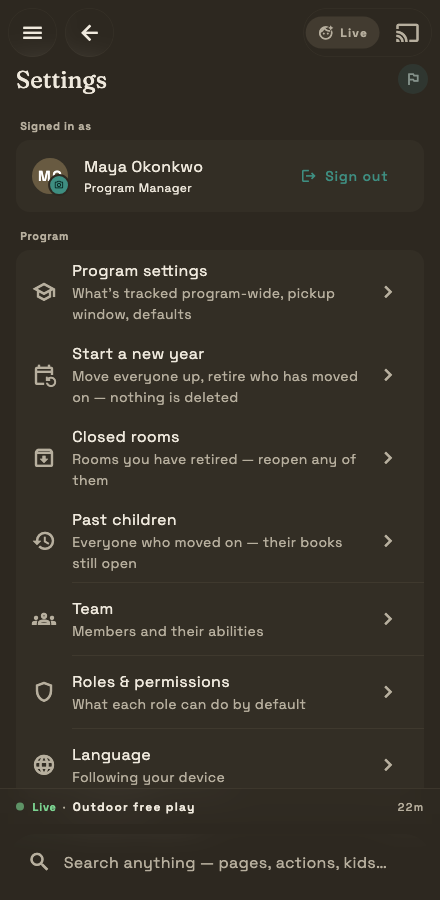
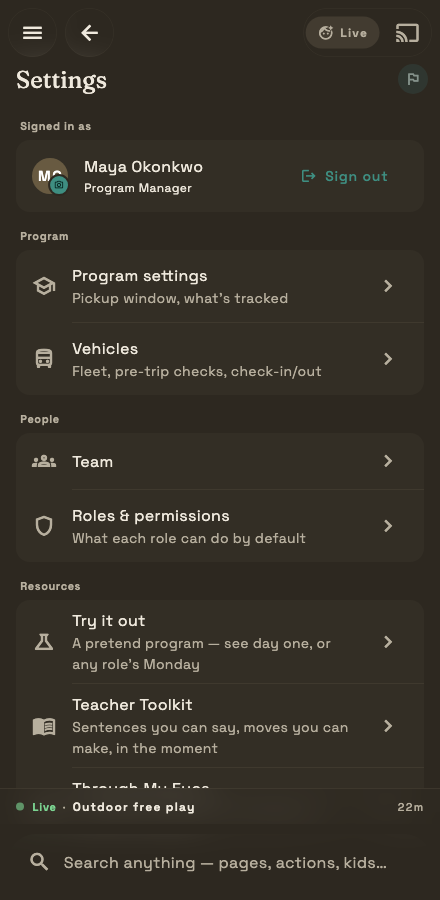
fix(settings): group by what you came to do; fix a crossword flake found doing it
Settings, regrouped

  "Program" held six different errands under one heading: config, an
  annual action, two archives, two people screens and a device
  preference. Finding any of them meant reading all of them, and every row
  looked and weighed the same.

  Now — Program (settings, vehicles) · People (team, roles) · Resources
  (try it out, toolkit, scripts, pictures) · Preferences (language,
  display, fonts, text size, layouts) · Kept, not gone (closed rooms,
  past children) · Once a year · About. Three coherent groups now fit
  where one incoherent one used to fill the screen.

  "Start a new year" gets its own heading because it is not navigation —
  it moves every child in the program up. A row that changes the shape of
  the whole program should not sit in a list of places to go.

  Subtitles only where the row cannot speak for itself. "Team · Members
  and their abilities" doubled a row's height to explain the word "Team";
  it is one line now. "Past children" keeps its subtitle because the
  reassurance IS the information — a director needs to know the books did
  not close with the year. Language shows its VALUE, not an explanation of
  what a language is.

A real bug the settings work surfaced

  The Crossword clue test started failing — and the flake WAS the bug. A
  crossing square belongs to two words but only one owner fits in a cell,
  so rebuilding the clue from the selected letters failed for whichever
[…]

diff --git a/lib/features/settings/settings_screen.dart b/lib/features/settings/settings_screen.dart
@@ -123,57 +123,24 @@ class SettingsScreen extends ConsumerWidget {
 
           // Space-level settings (label is vertical-aware — "Program"
           // for childcare, "Company" for construction, etc.)
+          // Grouped by what somebody came here to DO, not by what the row
+          // touches. "Program" used to hold config, an annual action, two
+          // archives, two people screens and a device preference — six
+          // different errands behind one heading, so finding any of them
+          // meant reading all of them.
           _SettingsGroup(
             label: labels.space,
             children: [
-              // Brianna-persona: rather than greying out silently
-              // when a teacher taps "Program settings", we explain
-              // why with the lock chip + tooltip-snackbar. The
-              // affordance stays visible so the new hire learns the
-              // permission model.
+              // Brianna-persona: rather than greying out silently when a
+              // teacher taps this, we explain why with the lock chip. The
+              // affordance stays visible so a new hire learns the model.
               if (viewer.canManageSpace)
                 ListTile(
                   leading: const Icon(Icons.school_outlined),
                   title: const Text('Program settings'),
-                  subtitle: const Text(
-                    "What's tracked program-wide, pickup window, "
-                    'defaults',
-                  ),
+                  subtitle: const Text('Pickup window, what’s tracked'),
                   trailing: const Icon(Icons.chevron_right),
                   onTap: () => context.push('/settings/program'),
-                ),
-              // Year rollover + its receipt. Grouped with Program because
-              // both change the shape of the program rather than a day.
-              if (viewer.canManageSpace)
-                ListTile(
-                  leading: const Icon(Icons.event_repeat_outlined),
-                  title: const Text('Start a new year'),
-                  subtitle: const Text(
-                    'Move everyone up, retire who has moved on — '
-                    'nothing is deleted',
-                  ),
-                  trailing: const Icon(Icons.chevron_right),
-                  onTap: () => context.push('/settings/rollover'),
-                ),
-              if (viewer.canManageSpace)
-                ListTile(
-                  leading: const Icon(Icons.archive_outlined),
-                  title: const Text('Closed rooms'),
-                  subtitle: const Text(
-                    'Rooms you have retired — reopen any of them',
-                  ),
-                  trailing: const Icon(Icons.chevron_right),
-                  onTap: () => context.push('/settings/closed-rooms'),
-                ),
-              if (viewer.canManageSpace)
-                ListTile(
-                  leading: const Icon(Icons.history_outlined),
-                  title: const Text('Past children'),
-                  subtitle: const Text(
-                    'Everyone who moved on — their books still open',
-                  ),
-                  trailing: const Icon(Icons.chevron_right),
-                  onTap: () => context.push('/settings/alumni'),
                 )
               else
                 const CapabilityLockedTile(
@@ -183,18 +150,31 @@ class SettingsScreen extends ConsumerWidget {
                   child: ListTile(
                     leading: Icon(Icons.school_outlined),
                     title: Text('Program settings'),
-                    subtitle: Text(
-                      "What's tracked program-wide, pickup window, "
-                      'defaults',
-                    ),
+                    subtitle: Text('Pickup window, what’s tracked'),
                     trailing: Icon(Icons.chevron_right),
                   ),
                 ),
               const _SettingsDivider(),
               ListTile(
+                leading: const Icon(Icons.directions_bus_outlined),
+                title: const Text('Vehicles'),
+                // Kept: a staffer cannot tell from the word alone that this
+                // is where pre-trip checks live.
+                subtitle: const Text('Fleet, pre-trip checks, check-in/out'),
+                trailing: const Icon(Icons.chevron_right),
+                onTap: () => context.push('/vehicles'),
+              ),
+            ],
+          ),
+
+          _SettingsGroup(
+            label: 'People',
+            children: [
+              ListTile(
                 leading: const Icon(Icons.groups_outlined),
+                // No subtitle. "Team" is not a word anybody needs explained,
+                // and the line under it doubled the row's height to say so.
                 title: const Text('Team'),
-                subtitle: const Text('Members and their abilities'),
                 trailing: const Icon(Icons.chevron_right),
                 onTap: () => context.push('/settings/team'),
               ),
@@ -202,25 +182,16 @@ class SettingsScreen extends ConsumerWidget {
               ListTile(
                 leading: const Icon(Icons.shield_outlined),
                 title: const Text('Roles & permissions'),
-                subtitle: const Text(
-                  'What each role can do by default',
-                ),
+                subtitle: const Text('What each role can do by default'),
                 trailing: const Icon(Icons.chevron_right),
                 onTap: () => context.push('/settings/roles'),
               ),
-              const _SettingsDivider(),
-              ListTile(
-                leading: const Icon(Icons.language_outlined),
-                title: const Text('Language'),
-                subtitle: Text(
-                  ref.watch(localeOverrideProvider).value == null
-                      ? 'Following your device'
-                      : 'English',
-                ),
-                trailing: const Icon(Icons.chevron_right),
-                onTap: () => _showLanguagePicker(context, ref),
-              ),
-              const _SettingsDivider(),
+            ],
+          ),
+
+          _SettingsGroup(
+            label: 'Resources',
+            children: [
               ListTile(
                 leading: const Icon(Icons.science_outlined),
                 title: const Text('Try it out'),
@@ -231,32 +202,6 @@ class SettingsScreen extends ConsumerWidget {
                 onTap: () => context.push('/settings/sandbox'),
               ),
               const _SettingsDivider(),
-              ListTile(
-                leading: const Icon(Icons.directions_bus_outlined),
-                title: const Text('Vehicles'),
-                subtitle: const Text(
-                  'Fleet vehicles, pre-trip checks, check-in/out',
-                ),
-                trailing: const Icon(Icons.chevron_right),
-                onTap: () => context.push('/vehicles'),
-              ),
-            ],
-          ),
-
-          // Library management (Activities / Locations) intentionally
-          // lives in the omnibox now, not in Settings. The bottom
-          // composer is the spine for "find / open / manage" — typing
-          // "activities" or "locations" surfaces the screens. Keeping
-          // them in Settings too made the menu busier without adding
-          // a new path. Settings is now preferences-only.
-
-          // Resources — editorial reference content that ships with
-          // the binary. The Teacher Toolkit is the first one;
-          // anything else that's "read-only library of curated
-          // moves / phrases / scripts" lives here too.
-          _SettingsGroup(
-            label: 'Resources',
-            children: [
               ListTile(
                 leading: const Icon(Icons.menu_book_outlined),
                 title: const Text('Teacher Toolkit'),
@@ -326,6 +271,20 @@ class SettingsScreen extends ConsumerWidget {
             children: [
               const TextSizeTile(),
               const _SettingsDivider(),
+              ListTile(
+                leading: const Icon(Icons.language_outlined),
+                title: const Text('Language'),
+                // The VALUE, not an explanation — what a person wants from
+                // this row is which language is on.
+                subtitle: Text(
+                  ref.watch(localeOverrideProvider).value == null
+                      ? 'Following your device'
+                      : 'English',
+                ),
+                trailing: const Icon(Icons.chevron_right),
+                onTap: () => _showLanguagePicker(context, ref),
+              ),
+              const _SettingsDivider(),
               const _OutdoorModeTile(),
               const _SettingsDivider(),
               const _DisplayStyleTile(),
@@ -363,6 +322,50 @@ class SettingsScreen extends ConsumerWidget {
 
           // About — version + privacy commitment. The privacy row is
           // non-negotiable for v1; childcare regulators read this.
+          _SettingsGroup(
+            label: 'Kept, not gone',
+            children: [
+              if (viewer.canManageSpace) ...[
+                ListTile(
+                  leading: const Icon(Icons.archive_outlined),
+                  title: const Text('Closed rooms'),
+                  trailing: const Icon(Icons.chevron_right),
+                  onTap: () => context.push('/settings/closed-rooms'),
+                ),
+                const _SettingsDivider(),
+                ListTile(
+                  leading: const Icon(Icons.history_outlined),
+                  title: const Text('Past children'),
+                  // Kept: the reassurance IS the information — a director
+                  // needs to know the books did not close with the year.
+                  subtitle: const Text('Their books are still open'),
+                  trailing: const Icon(Icons.chevron_right),
+                  onTap: () => context.push('/settings/alumni'),
+                ),
+              ],
+            ],
+          ),
+
+          // Its own heading because it is not navigation: it moves every
+          // child in the program up a year. A row that changes the shape of
+          // the whole program should not sit in a list of places to go.
+          if (viewer.canManageSpace)
+            _SettingsGroup(
+              label: 'Once a year',
+              children: [
+                ListTile(
+                  leading: const Icon(Icons.event_repeat_outlined),
+                  title: const Text('Start a new year'),
+                  subtitle: const Text(
+                    'Moves everyone up and retires who has left. '
+                    'Nothing is deleted.',
+                  ),
+                  trailing: const Icon(Icons.chevron_right),
+                  onTap: () => context.push('/settings/rollover'),
+                ),
+              ],
+            ),
+
           _SettingsGroup(
             label: 'About',
             children: [

diff --git a/lib/features/games/games/crossword_game.dart b/lib/features/games/games/crossword_game.dart
@@ -68,7 +68,8 @@ class CrosswordGame extends GridGame {
 
   @override
   List<BoardCell> deal(ContentSource content) {
-    final puzzle = _puzzles[Random().nextInt(_puzzles.length)];
+    final which = Random().nextInt(_puzzles.length);
+    final puzzle = _puzzles[which];
     // Each square remembers the letter it wants and which clue it belongs to;
     // both are storage, blanked by present() until the word is solved.
     final want = List<String?>.filled(_size * _size, null);
@@ -88,7 +89,11 @@ class CrosswordGame extends GridGame {
       for (var i = 0; i < _size * _size; i++)
         BoardCell(
           // "letter|clueIndex" — one string, because a cell has one label.
-          label: want[i] == null ? null : '${want[i]}|${owner[i]}',
+          // "letter|clueIndex|puzzleIndex". The puzzle rides on every
+          // square because a crossing square belongs to TWO words and only
+          // one owner fits — so the clue must be a lookup, not something
+          // rebuilt from whichever letters happen to be selected.
+          label: want[i] == null ? null : '${want[i]}|${owner[i]}|$which',
           state: want[i] == null ? CellState.done : CellState.hidden,
         ),
     ];
@@ -113,11 +118,14 @@ class CrosswordGame extends GridGame {
   @override
   List<BoardCell>? onPick(GridBoard b, int i) {
     if (b.cells[i].label == null) return null;
-    final clue = (b.cells[i].label ?? '').split('|').last;
+    final parts = (b.cells[i].label ?? '').split('|');
+    if (parts.length < 2) return null;
+    final clue = parts[1];
     return [
       for (final c in b.cells)
         c.copyWith(
-          tint: (c.label ?? '').split('|').last == clue && c.label != null
+          tint:
+              c.label != null && (c.label ?? '').split('|').elementAt(1) == clue
               ? CellTint.live
               : CellTint.none,
         ),
@@ -153,21 +161,12 @@ class CrosswordGame extends GridGame {
     // rather than a permanent instruction.
     final live = b.cells.where((c) => c.tint == CellTint.live).toList();
     if (live.isEmpty) return null;
-    final idx = int.tryParse((live.first.label ?? '').split('|').last);
-    if (idx == null) return null;
-    for (final p in _puzzles) {
-      if (idx < p.length && _matches(b, p, idx)) return p[idx].clue;
-    }
-    return null;
-  }
-
-  /// Which of the bundled puzzles this board came from — matched on the
-  /// selected word's length and letters, since the board does not carry an id.
-  bool _matches(GridBoard b, List<_Entry> p, int idx) {
-    final picked = [
-      for (final c in b.cells)
-        if (c.tint == CellTint.live) _letter(c),
-    ].join();
-    return p[idx].word == picked;
+    final parts = (live.first.label ?? '').split('|');
+    if (parts.length < 3) return null;
+    final idx = int.tryParse(parts[1]);
+    final which = int.tryParse(parts[2]);
+    if (idx == null || which == null) return null;
+    if (which >= _puzzles.length || idx >= _puzzles[which].length) return null;
+    return _puzzles[which][idx].clue;
   }
 }

diff --git a/test/unit/classic_grid_games_test.dart b/test/unit/classic_grid_games_test.dart
@@ -536,6 +536,28 @@ void _shapesIWasWrongAbout() {
   group('Crossword', () {
     const g = CrosswordGame();
 
+    test('every square in every puzzle can ask for its clue', () {
+      // This was flaky, and the flake was the bug: a crossing square belongs
+      // to TWO words but only one owner fits in a cell, so rebuilding the
+      // clue from the selected letters failed for whichever word lost the
+      // crossing. Which puzzle got dealt decided whether it worked. Now the
+      // puzzle rides on the square and the clue is a lookup — so EVERY
+      // square of EVERY deal must produce one.
+      for (var trial = 0; trial < 30; trial++) {
+        final start = g.initialState(const _NoContent());
+        final b = board(g, start);
+        for (var i = 0; i < b.cells.length; i++) {
+          if (b.cells[i].label == null) continue;
+          final after = board(g, tap(g, start, i));
+          expect(
+            g.titleFor(after),
+            isNotNull,
+            reason: 'square $i produced no clue',
+          );
+        }
+      }
+    });
+
     test('tapping a square asks for that word’s clue', () {
       final start = g.initialState(const _NoContent());
       final b0 = board(g, start);
